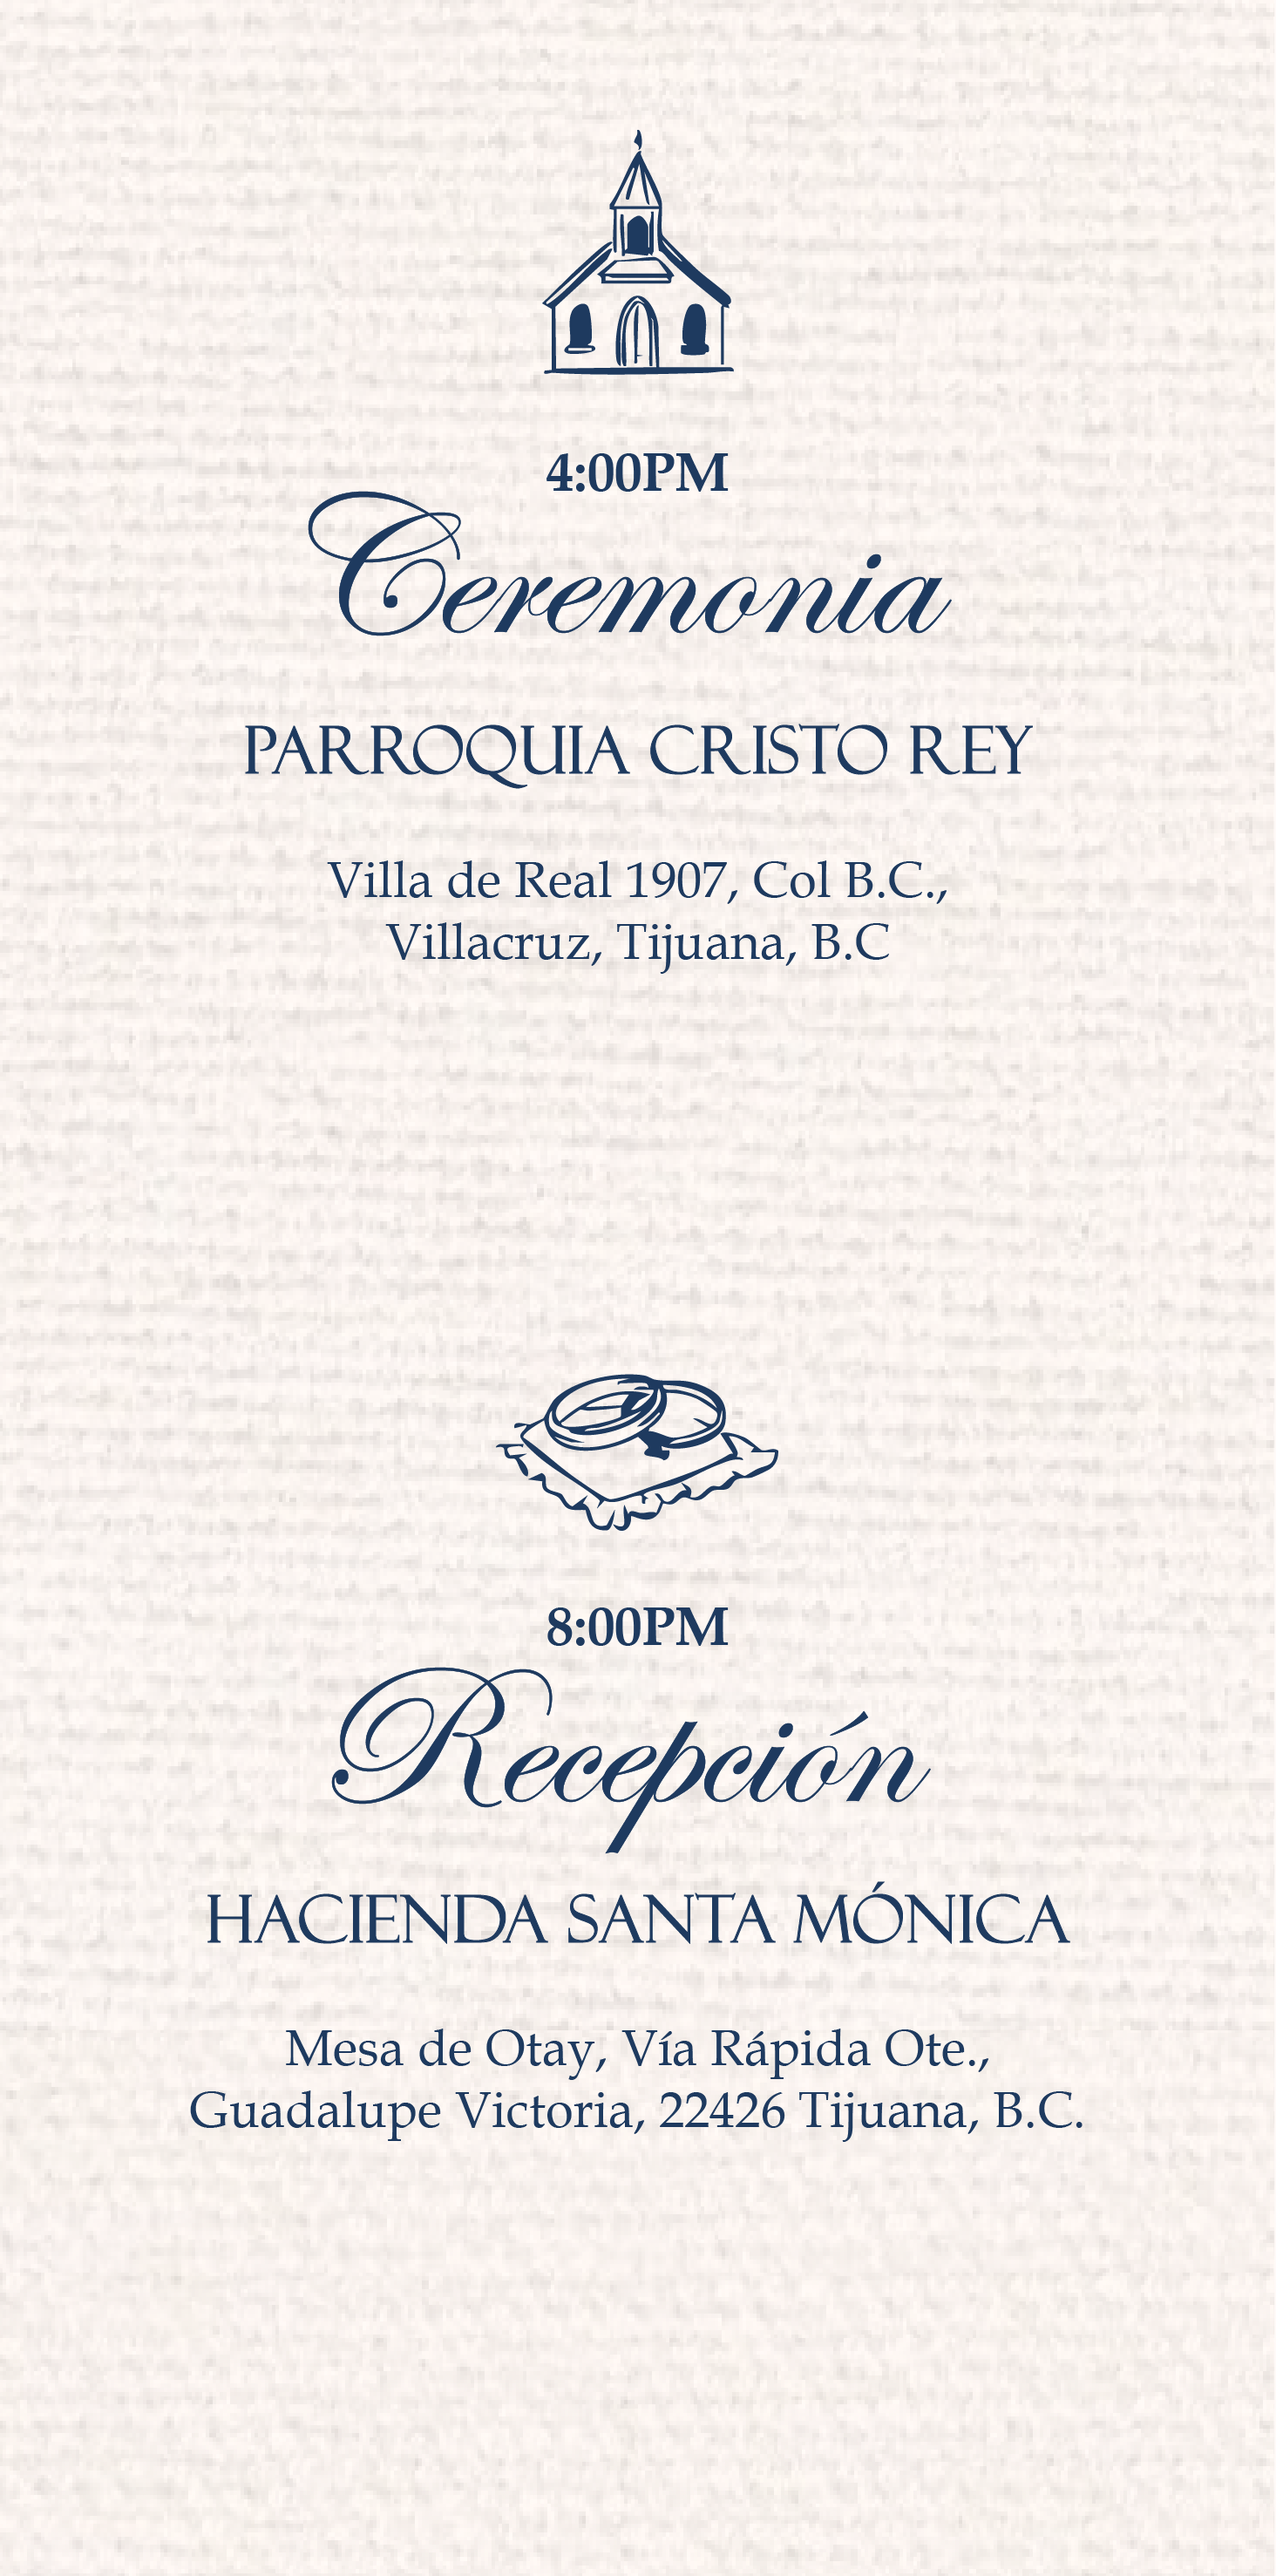
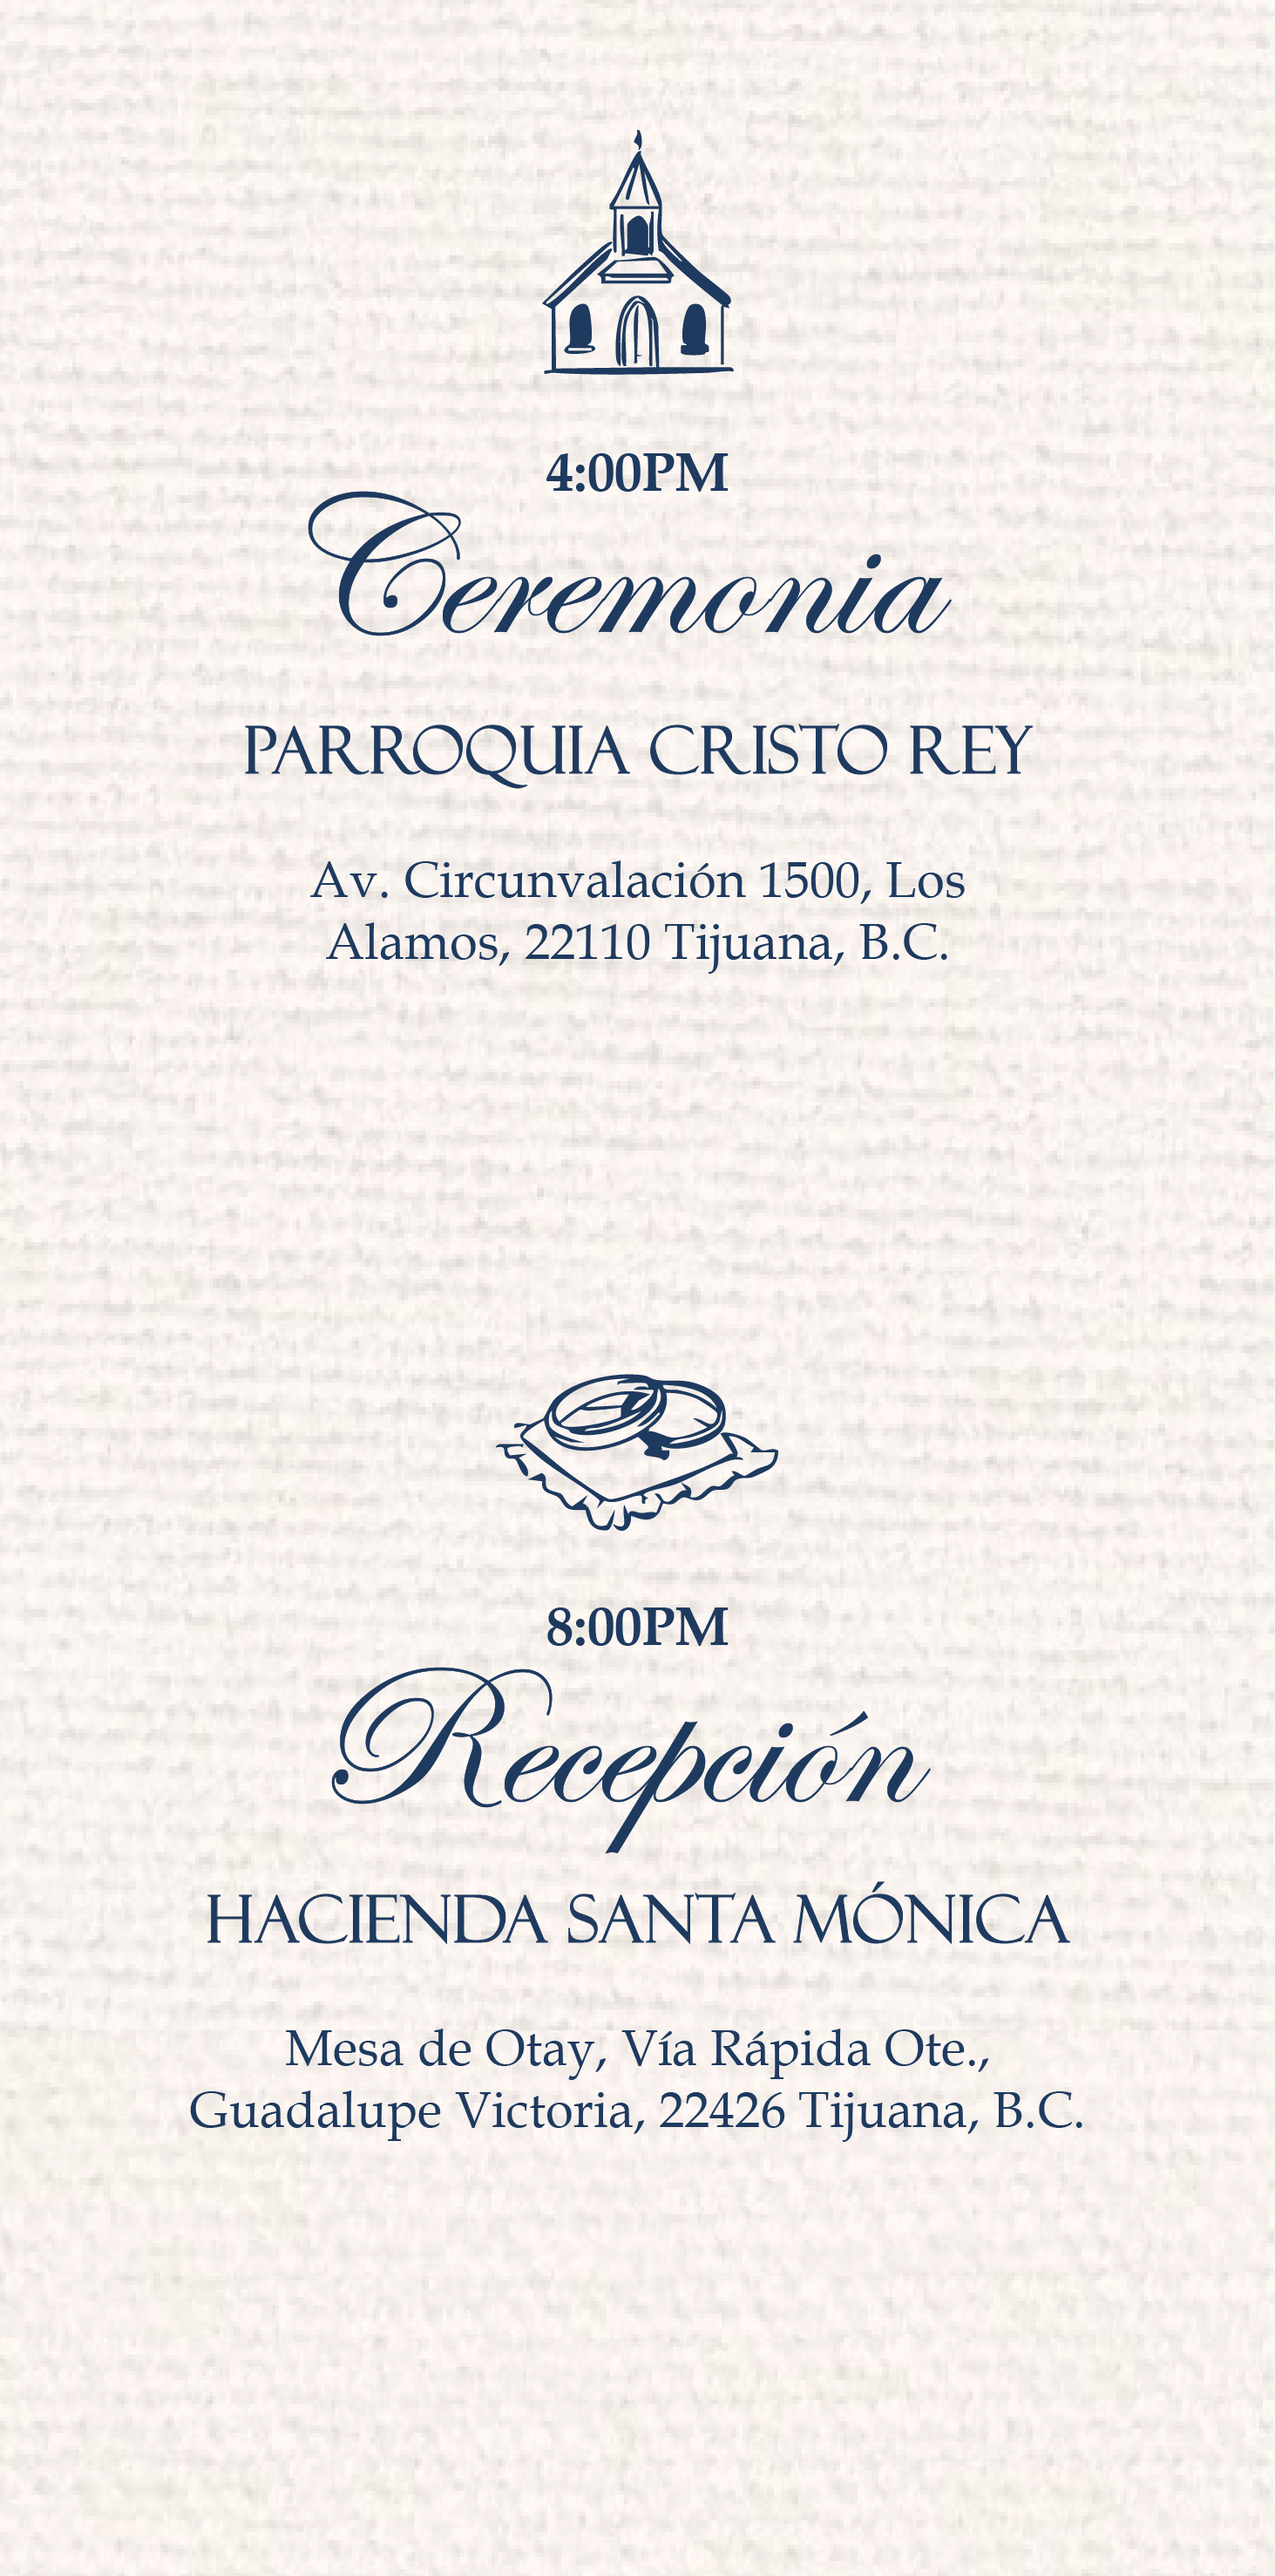
V2

diff --git a/index.html b/index.html
@@ -95,7 +95,7 @@
                     <img src="Assets/Imagenes/DE.png" alt="Detalles de Ubicación" class="full-width-img de-bg">
 
                     <!-- Botones de Ubicación -->
-                    <a href="https://maps.google.com/?q=Parroquia+Cristo+Rey+Villa+de+Real+Tijuana" target="_blank"
+                    <a href="https://maps.app.goo.gl/fABgdg5mCxnt7Lyj8" target="_blank"
                         class="de-btn btn-ceremonia">UBICACIÓN</a>
                     <a href="https://maps.google.com/?q=Hacienda+Santa+Mónica+Tijuana" target="_blank"
                         class="de-btn btn-recepcion">UBICACIÓN</a>
